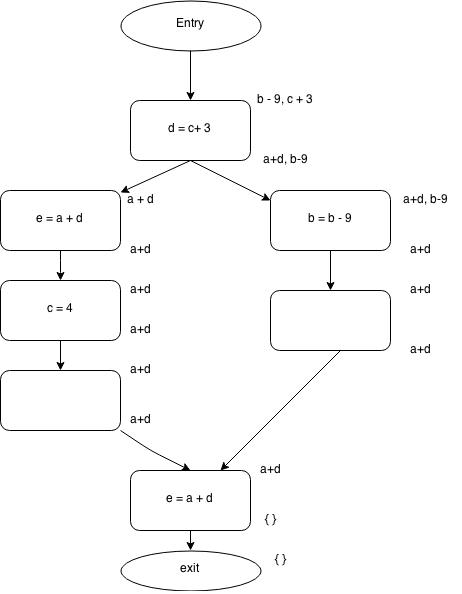
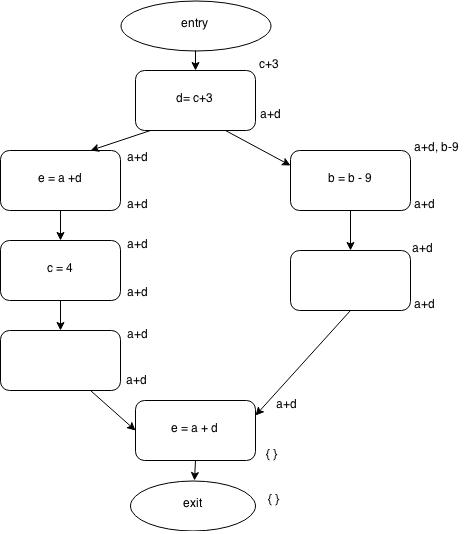
Question 1 tex-ed up

diff --git a/asst2/writeup/writeup.tex b/asst2/writeup/writeup.tex
@@ -53,8 +53,22 @@
 \begin{question}{Writeup}
 \end{question}
 \begin{question}{Lazy Code Motion}
+
+After the Anticipated expressions pass: Each block is annotated with 
+the in and out values of \texttt{anticipated}
 \begin{center}
 \includegraphics[scale=0.5]{cfg1.jpg}
+\end{center}
+
+After the Early Placement pass: Each block is annotated with the values 
+of \texttt{earliest} for that block.
+\begin{center}
+\includegraphics[scale=0.5]{cfg2.jpg}
+\end{center}
+
+After Lazy Code Motion and cleanup passes:
+\begin{center}
+\includegraphics[scale=0.5]{cfg3.jpg}
 \end{center}
 \end{question}
 \begin{question}{Loop Invariant Code Motion}
